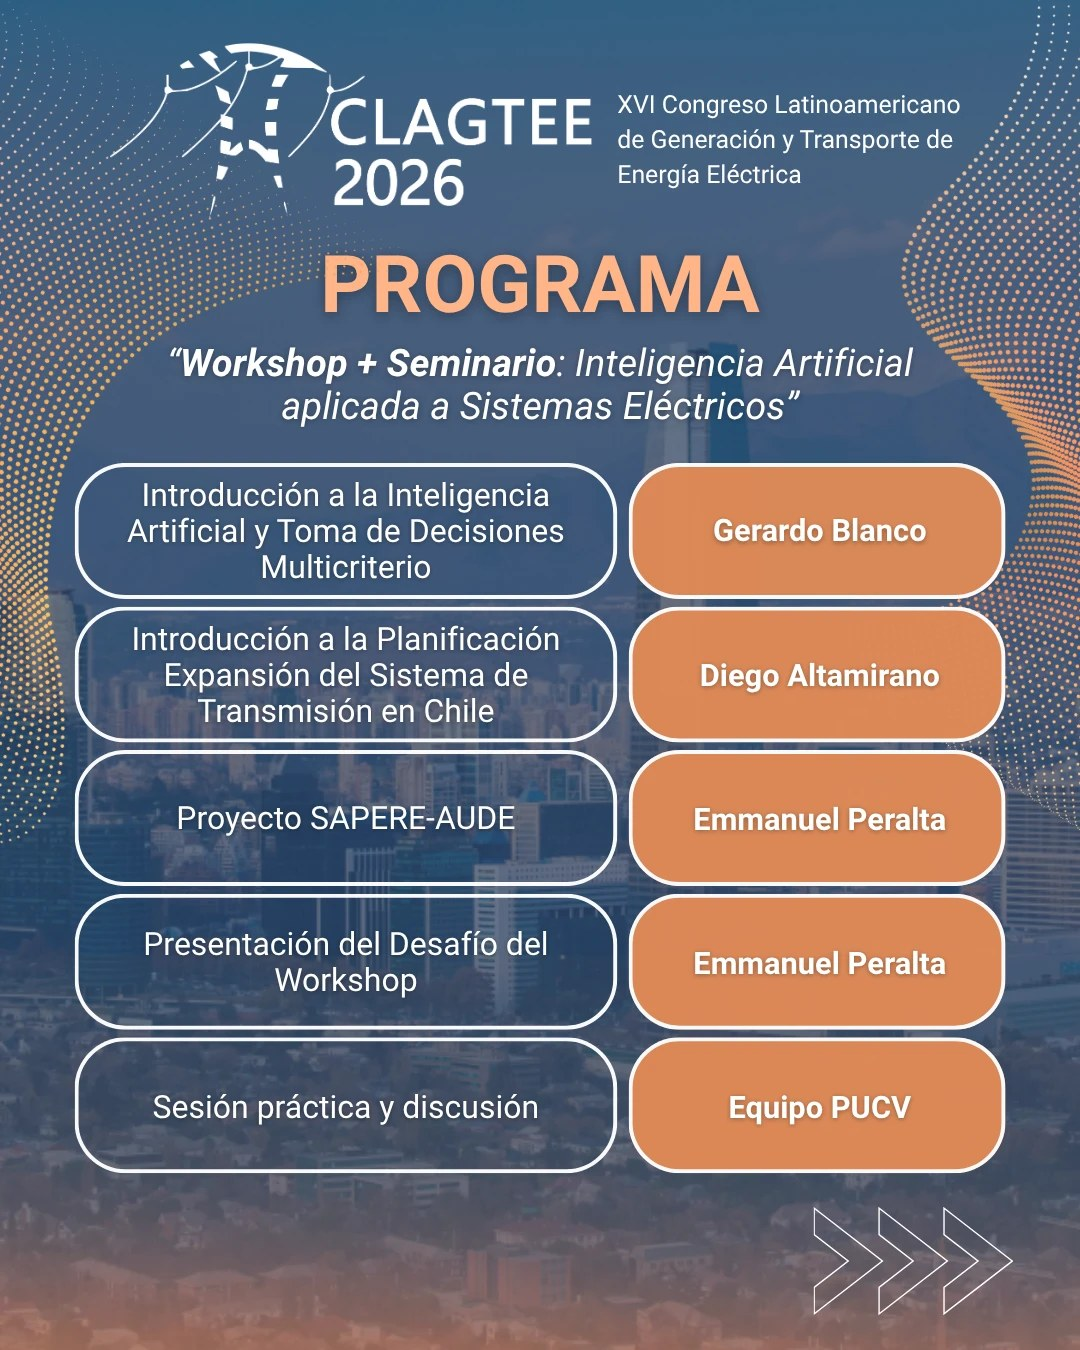
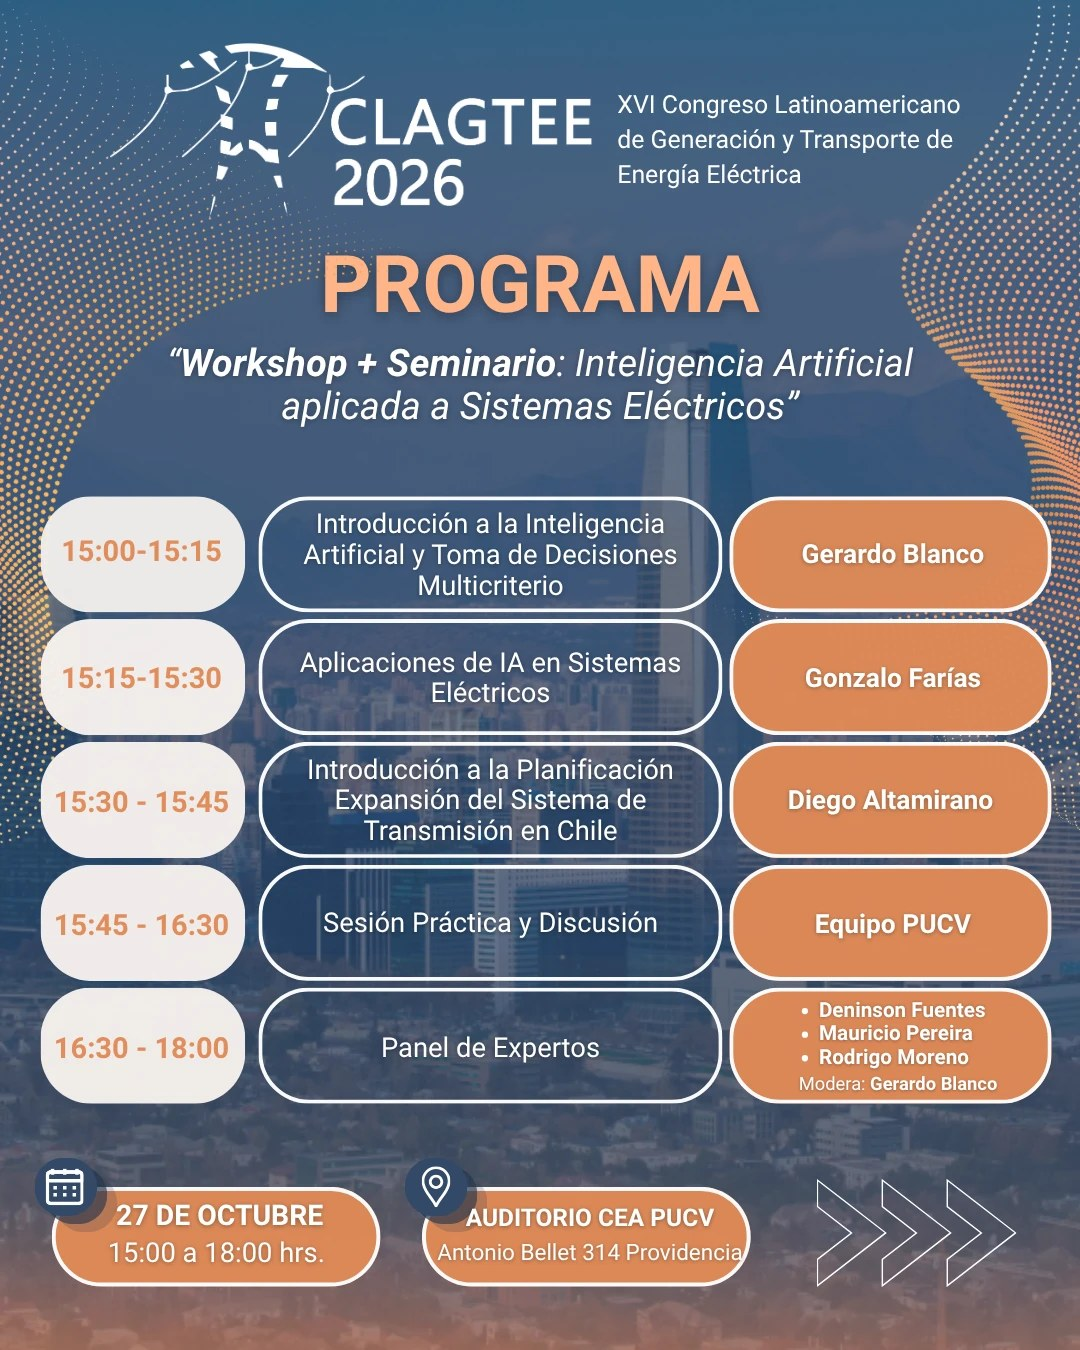
chore(pre-congress): update program poster and schedule (#16)
New program graphic for the 27 October workshop + seminar. The card text
follows it: adds Gonzalo Farías and the expert panel, drops the
SAPERE-AUDE and workshop-challenge talks, and shows each slot's time.

Claude-Session: https://claude.ai/code/session_01Ux2NUFHuxfyKxH2vMvjRnD

diff --git a/data/translations/pt.ts b/data/translations/pt.ts
@@ -884,30 +884,35 @@ export const contentPT: Content = {
           "badge": "Pré-congresso",
           "typeLabel": "Workshop + Seminário",
           "title": "“Inteligência Artificial aplicada a Sistemas Elétricos”",
-          "tagline": "Palestras, desafio do workshop e sessão prática",
+          "tagline": "Palestras, sessão prática e painel de especialistas",
           "date": "27 de Outubro de 2026",
           "imageUrl": "/pre-congreso/precongreso-programa.jpg",
           "panelistsLabel": "Programa",
           "panelists": [
             {
               "name": "Gerardo Blanco",
-              "role": "Introdução à Inteligência Artificial e Tomada de Decisão Multicritério"
+              "role": "Introdução à Inteligência Artificial e Tomada de Decisão Multicritério",
+              "affiliation": "15:00 – 15:15"
+            },
+            {
+              "name": "Gonzalo Farías",
+              "role": "Aplicações de IA em Sistemas Elétricos",
+              "affiliation": "15:15 – 15:30"
             },
             {
               "name": "Diego Altamirano",
-              "role": "Introdução ao Planejamento da Expansão do Sistema de Transmissão no Chile"
-            },
-            {
-              "name": "Emmanuel Peralta",
-              "role": "Projeto SAPERE-AUDE"
-            },
-            {
-              "name": "Emmanuel Peralta",
-              "role": "Apresentação do Desafio do Workshop"
+              "role": "Introdução ao Planejamento da Expansão do Sistema de Transmissão no Chile",
+              "affiliation": "15:30 – 15:45"
             },
             {
               "name": "Equipe PUCV",
-              "role": "Sessão prática e discussão"
+              "role": "Sessão prática e discussão",
+              "affiliation": "15:45 – 16:30"
+            },
+            {
+              "name": "Deninson Fuentes, Mauricio Pereira e Rodrigo Moreno",
+              "role": "Painel de Especialistas. Moderação: Gerardo Blanco",
+              "affiliation": "16:30 – 18:00"
             }
           ]
         },

diff --git a/data/translations/es.ts b/data/translations/es.ts
@@ -884,30 +884,35 @@ export const contentES: Content = {
           "badge": "Pre Congreso",
           "typeLabel": "Workshop + Seminario",
           "title": "“Inteligencia Artificial aplicada a Sistemas Eléctricos”",
-          "tagline": "Charlas, desafío del workshop y sesión práctica",
+          "tagline": "Charlas, sesión práctica y panel de expertos",
           "date": "27 de Octubre 2026",
           "imageUrl": "/pre-congreso/precongreso-programa.jpg",
           "panelistsLabel": "Programa",
           "panelists": [
             {
               "name": "Gerardo Blanco",
-              "role": "Introducción a la Inteligencia Artificial y Toma de Decisiones Multicriterio"
+              "role": "Introducción a la Inteligencia Artificial y Toma de Decisiones Multicriterio",
+              "affiliation": "15:00 – 15:15"
+            },
+            {
+              "name": "Gonzalo Farías",
+              "role": "Aplicaciones de IA en Sistemas Eléctricos",
+              "affiliation": "15:15 – 15:30"
             },
             {
               "name": "Diego Altamirano",
-              "role": "Introducción a la Planificación Expansión del Sistema de Transmisión en Chile"
-            },
-            {
-              "name": "Emmanuel Peralta",
-              "role": "Proyecto SAPERE-AUDE"
-            },
-            {
-              "name": "Emmanuel Peralta",
-              "role": "Presentación del Desafío del Workshop"
+              "role": "Introducción a la Planificación Expansión del Sistema de Transmisión en Chile",
+              "affiliation": "15:30 – 15:45"
             },
             {
               "name": "Equipo PUCV",
-              "role": "Sesión práctica y discusión"
+              "role": "Sesión práctica y discusión",
+              "affiliation": "15:45 – 16:30"
+            },
+            {
+              "name": "Deninson Fuentes, Mauricio Pereira y Rodrigo Moreno",
+              "role": "Panel de Expertos. Modera: Gerardo Blanco",
+              "affiliation": "16:30 – 18:00"
             }
           ]
         },

diff --git a/data/translations/en.ts b/data/translations/en.ts
@@ -884,30 +884,35 @@ export const contentEN: Content = {
           "badge": "Pre-congress",
           "typeLabel": "Workshop + Seminar",
           "title": "“Artificial Intelligence Applied to Power Systems”",
-          "tagline": "Talks, workshop challenge, and hands-on session",
+          "tagline": "Talks, hands-on session, and expert panel",
           "date": "October 27, 2026",
           "imageUrl": "/pre-congreso/precongreso-programa.jpg",
           "panelistsLabel": "Program",
           "panelists": [
             {
               "name": "Gerardo Blanco",
-              "role": "Introduction to Artificial Intelligence and Multi-Criteria Decision Making"
+              "role": "Introduction to Artificial Intelligence and Multi-Criteria Decision Making",
+              "affiliation": "15:00 – 15:15"
+            },
+            {
+              "name": "Gonzalo Farías",
+              "role": "AI Applications in Power Systems",
+              "affiliation": "15:15 – 15:30"
             },
             {
               "name": "Diego Altamirano",
-              "role": "Introduction to Transmission System Expansion Planning in Chile"
-            },
-            {
-              "name": "Emmanuel Peralta",
-              "role": "SAPERE-AUDE Project"
-            },
-            {
-              "name": "Emmanuel Peralta",
-              "role": "Workshop Challenge Presentation"
+              "role": "Introduction to Transmission System Expansion Planning in Chile",
+              "affiliation": "15:30 – 15:45"
             },
             {
               "name": "PUCV Team",
-              "role": "Hands-on session and discussion"
+              "role": "Hands-on session and discussion",
+              "affiliation": "15:45 – 16:30"
+            },
+            {
+              "name": "Deninson Fuentes, Mauricio Pereira, and Rodrigo Moreno",
+              "role": "Expert Panel. Moderator: Gerardo Blanco",
+              "affiliation": "16:30 – 18:00"
             }
           ]
         },
